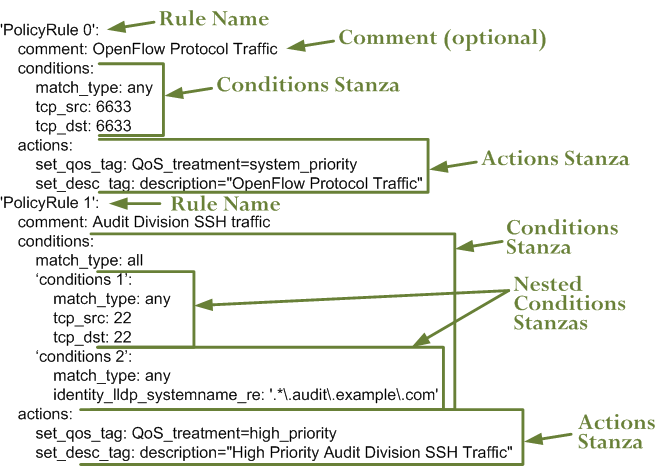
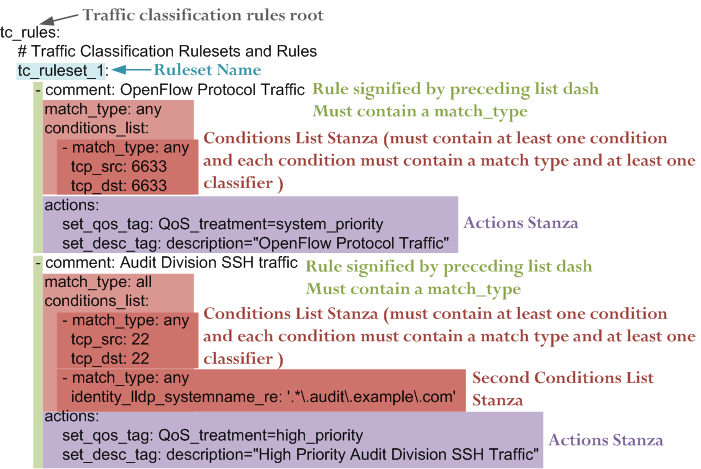
Website updates
Updates to user guide to reflect change in policy for issue #36

diff --git a/userguide.html b/userguide.html
@@ -69,17 +69,19 @@ in YAML ("YAML Ain't Markup Language") format
 
 <p>The traffic classification policy (also in YAML) is stored in the file:</p>
 
-<pre><code>config/tc_policy.yaml
+<pre><code>config/main_policy.yaml
 </code></pre>
 
 <p>It is used to control what classifiers are used, in what order and what actions are taken.</p>
 
-<p>The traffic classification policy is composed of one or more <em>policy rules</em>, each of which contain:</p>
+<p>The traffic classification policy is based off a root key <em>tc_rules</em>. This root contains a <em>ruleset</em> name (only one ruleset supported at this stage), which in turn contains one or more <em>rules</em>.</p>
+
+<p>Rules are an ordered list (denoted by preceding dash). Each rule contains:</p>
 
 <ul>
-  <li>A <em>rule name</em></li>
   <li>A <em>comment</em> to describe the purpose of the rule (optional)</li>
-  <li>A single <em>conditions</em> stanza</li>
+  <li>A <em>match type</em></li>
+  <li>A single <em>conditions_list</em> stanza that contains one or more <em>conditions</em> stanzas</li>
   <li>A single <em>actions</em> stanza</li>
 </ul>
 
@@ -88,15 +90,22 @@ in YAML ("YAML Ain't Markup Language") format
 <pre><code><img src="images/userguide/simple_tc_policy.png" alt="simple traffic classification policy">
 </code></pre>
 
-<p>A <em>rule name</em> can be any single-line string, but must not be the same as any other rule name</p>
-
 <p>A <em>comment</em> must start with the attribute <em>comment:</em> and any single-line string can follow</p>
 
-<p>A <em>conditions</em> stanza contains:</p>
+<p>A <em>match type</em> is one of <em>any</em> or <em>all</em></li>
+
+<p>A <em>conditions_list</em> stanza contains:</p>
 
 <ul>
   <li>A match type, consisting of <em>any</em> or <em>all</em></li>
-  <li>zero or more nested <em>conditions</em></li>
+  <li>One or more <em>conditions</em> as list items (denoted by dash preceding the first item)</li>
+  <li>One or more <em>classifiers</em> (see below)</li>
+</ul>
+
+<p>A <em>conditions</em> stanza is a list item in a conditions list and contains:</p>
+
+<ul>
+  <li>A match type, consisting of <em>any</em> or <em>all</em></li>
   <li>One or more <em>classifiers</em> (see below)</li>
 </ul>
 
@@ -104,10 +113,8 @@ in YAML ("YAML Ain't Markup Language") format
 
 <p>Here is a more complex traffic classification policy:</p>
 
-<pre><code><img src="images/userguide/complex_tc_policy.png" alt="simple traffic classification policy">
+<pre><code><img src="images/userguide/complex_tc_policy.png" alt="complex traffic classification policy">
 </code></pre>
-
-<p>Note that when there is more than one conditions stanza (only permitted in nested conditions), the main attributes for the stanzas must be unique, and start with <em>conditions</em></p>
 
 <p>Conditions invoke classifiers. There are four types of classifier supported:
 <ul>
